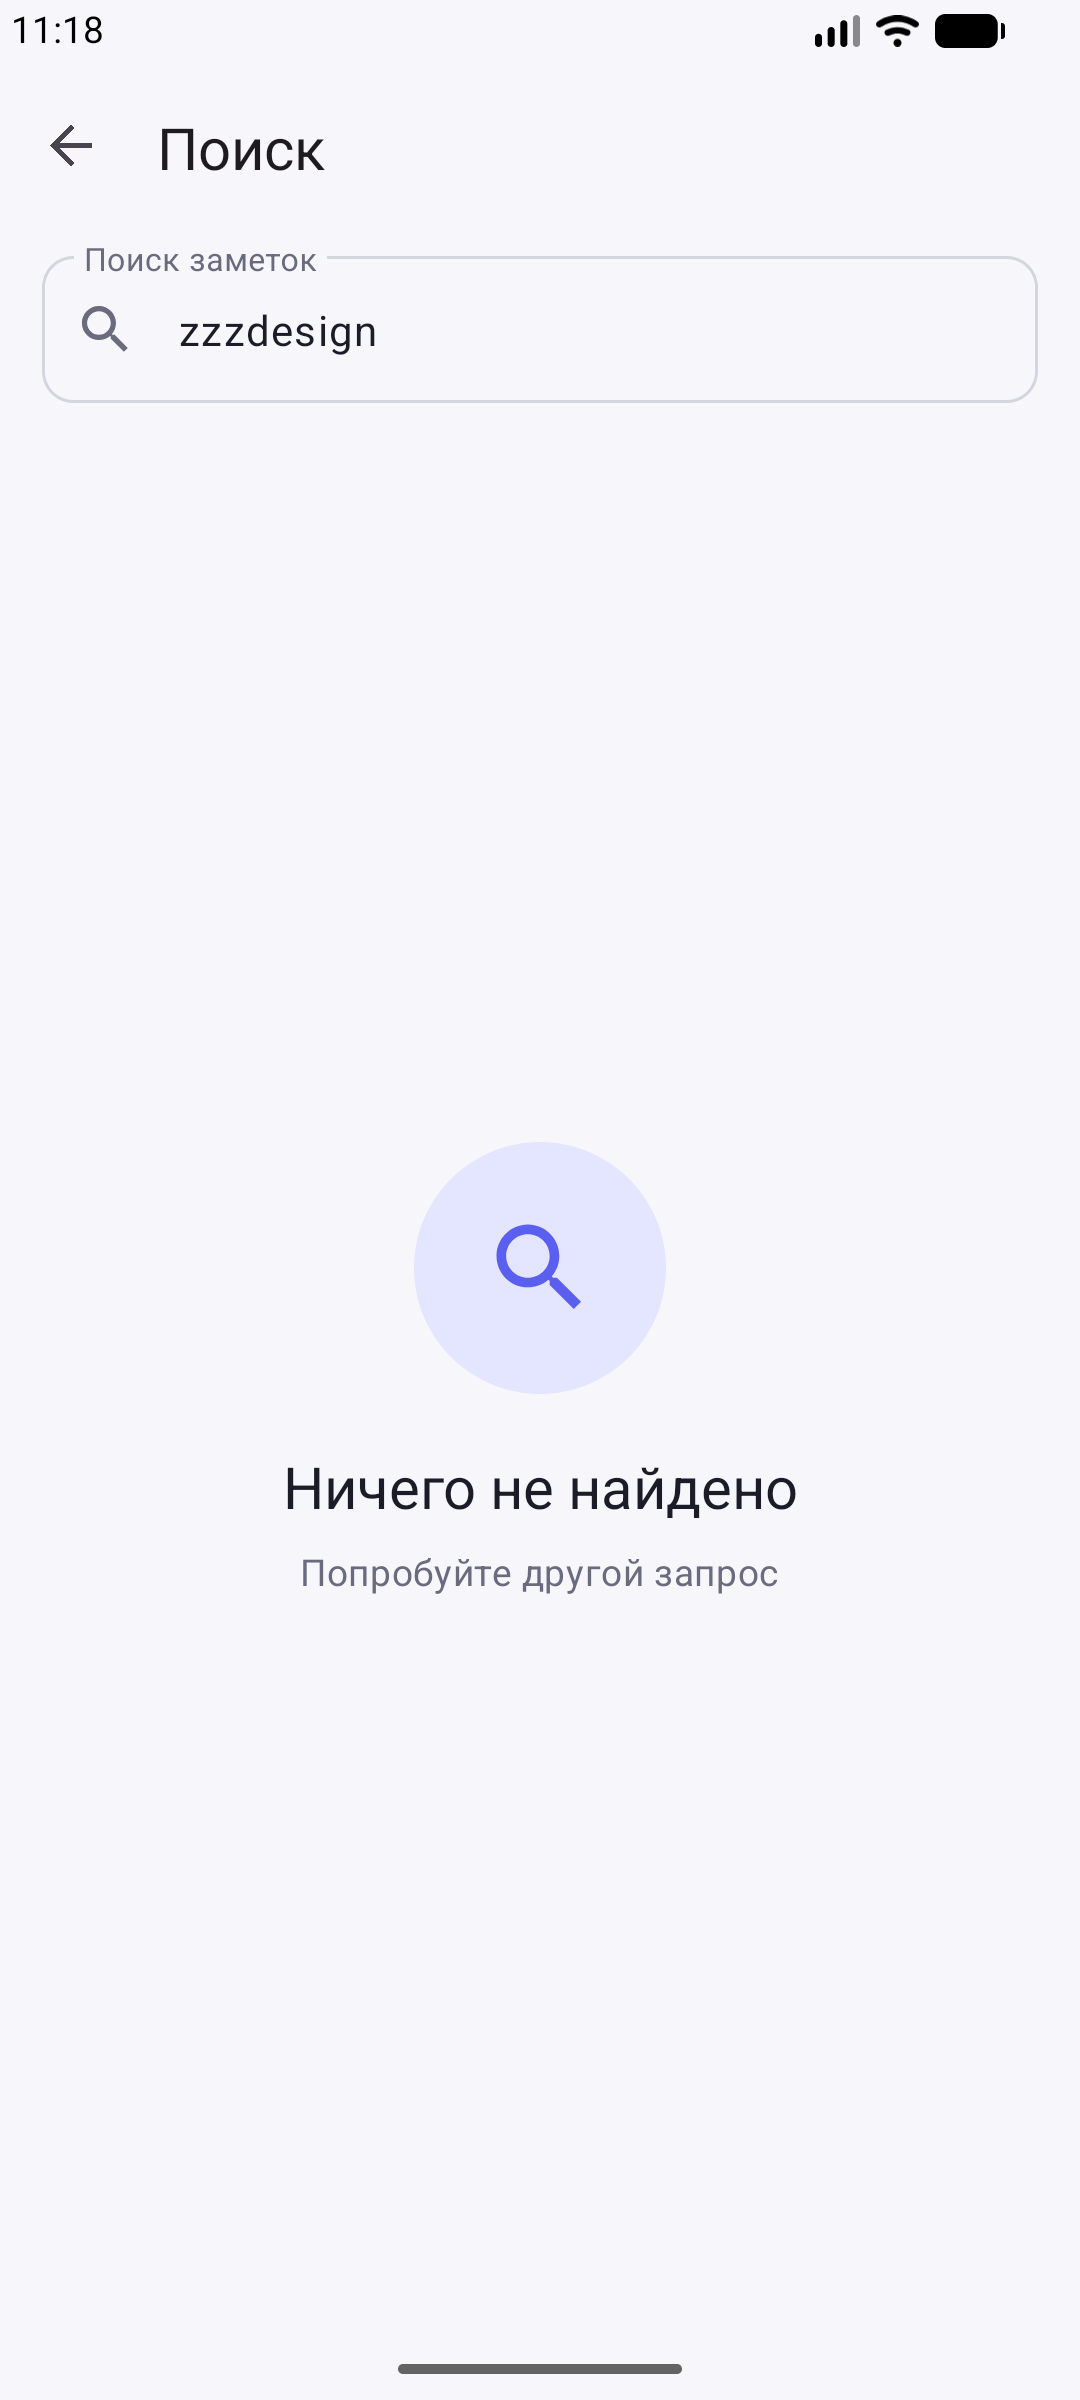
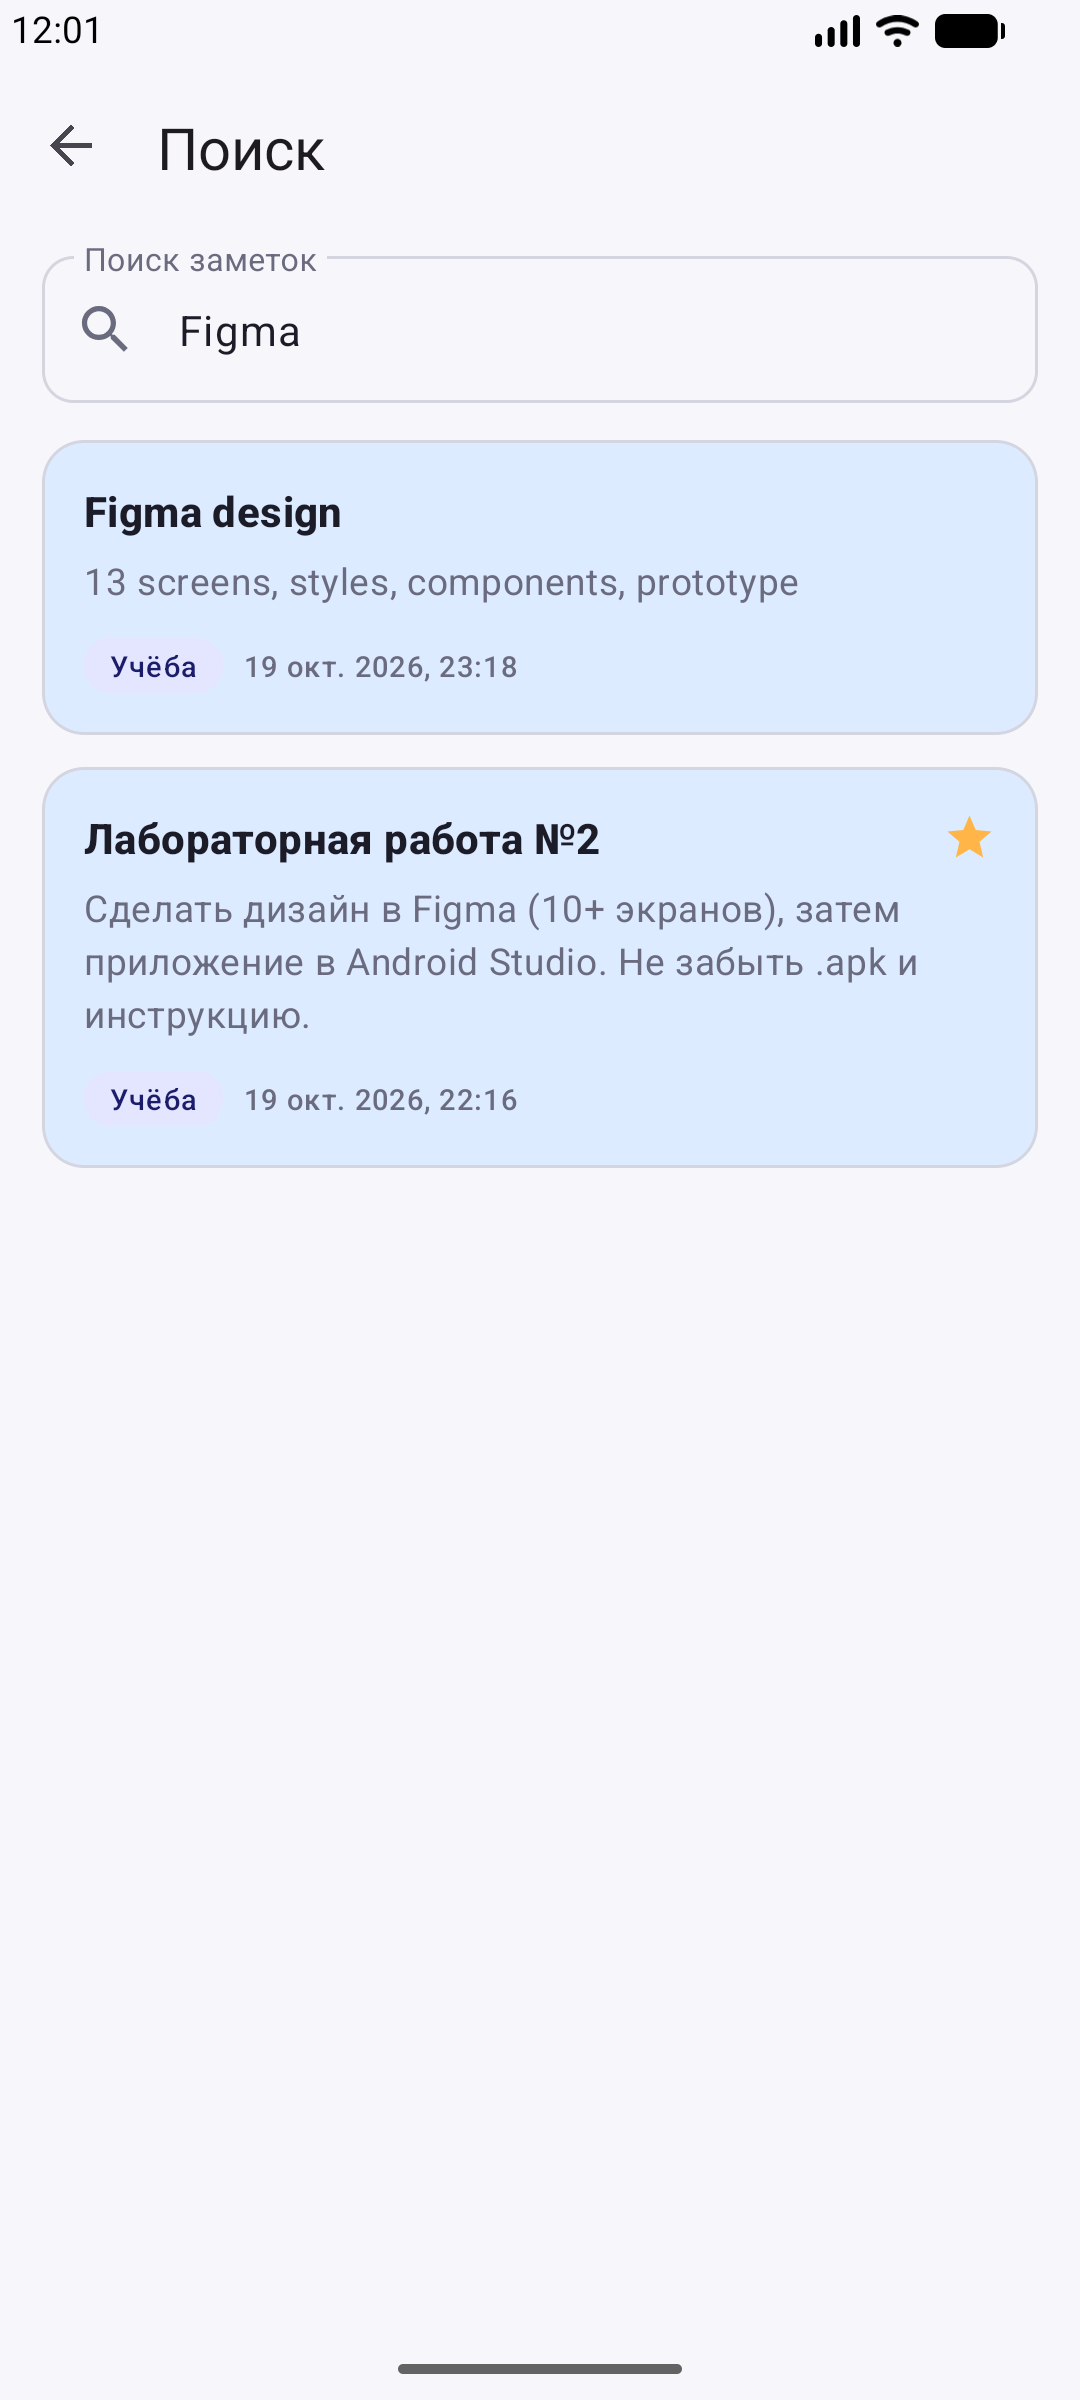
Splash in brand colors, Russian plurals, Figma links, fresh screenshots

diff --git a/app/src/main/java/com/example/notes/ui/auth/SplashFragment.kt b/app/src/main/java/com/example/notes/ui/auth/SplashFragment.kt
@@ -15,7 +15,7 @@ class SplashFragment : Fragment(R.layout.fragment_splash) {
 
     override fun onViewCreated(view: View, savedInstanceState: Bundle?) {
         viewLifecycleOwner.lifecycleScope.launch {
-            delay(1200)
+            delay(1500)
             val target = if (app.session.isLoggedIn) {
                 R.id.action_splash_to_notes
             } else {

diff --git a/README.md b/README.md
@@ -10,7 +10,12 @@
 
 `Notes.apk` можно скачать на вкладке **Releases** этого репозитория (debug-сборка, Android 8.0+).
 
-Макет в Figma строится автоматически плагином из папки `figma-plugin/` (Figma Desktop → Plugins → Development → Import plugin from manifest).
+## Дизайн в Figma
+
+- **Макет:** https://www.figma.com/design/RCRHfh7HqOGxG3LL9T1rXa/
+- **Интерактивный прототип:** https://www.figma.com/proto/RCRHfh7HqOGxG3LL9T1rXa/?node-id=1-203&starting-point-node-id=1%3A203&scaling=scale-down
+
+В файле 4 страницы: обложка, стили (15 цветов и 6 текстовых стилей), компоненты с вариантами (Button, Text Field, Color Chip, Note Card, Folder Card, FAB) и 25 макетов экранов с состояниями, связанные 86 переходами прототипа. Макет построен плагином из папки `figma-plugin/` (Figma Desktop → Plugins → Development → Import plugin from manifest).
 
 **Установка на телефон:** скопируйте `Notes.apk` на телефон, откройте файл и разрешите установку из неизвестных источников.
 
